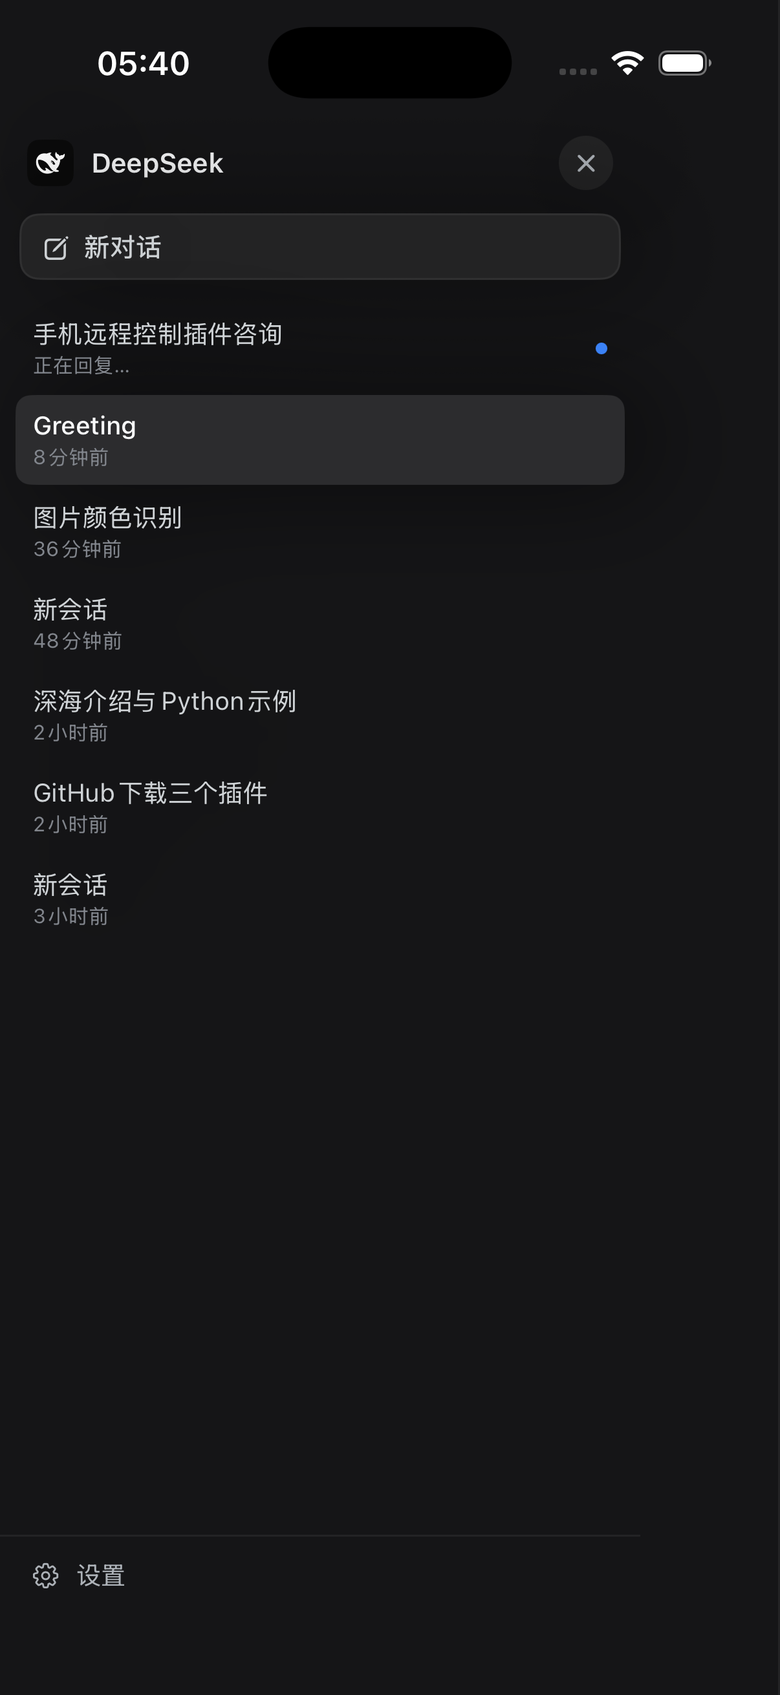
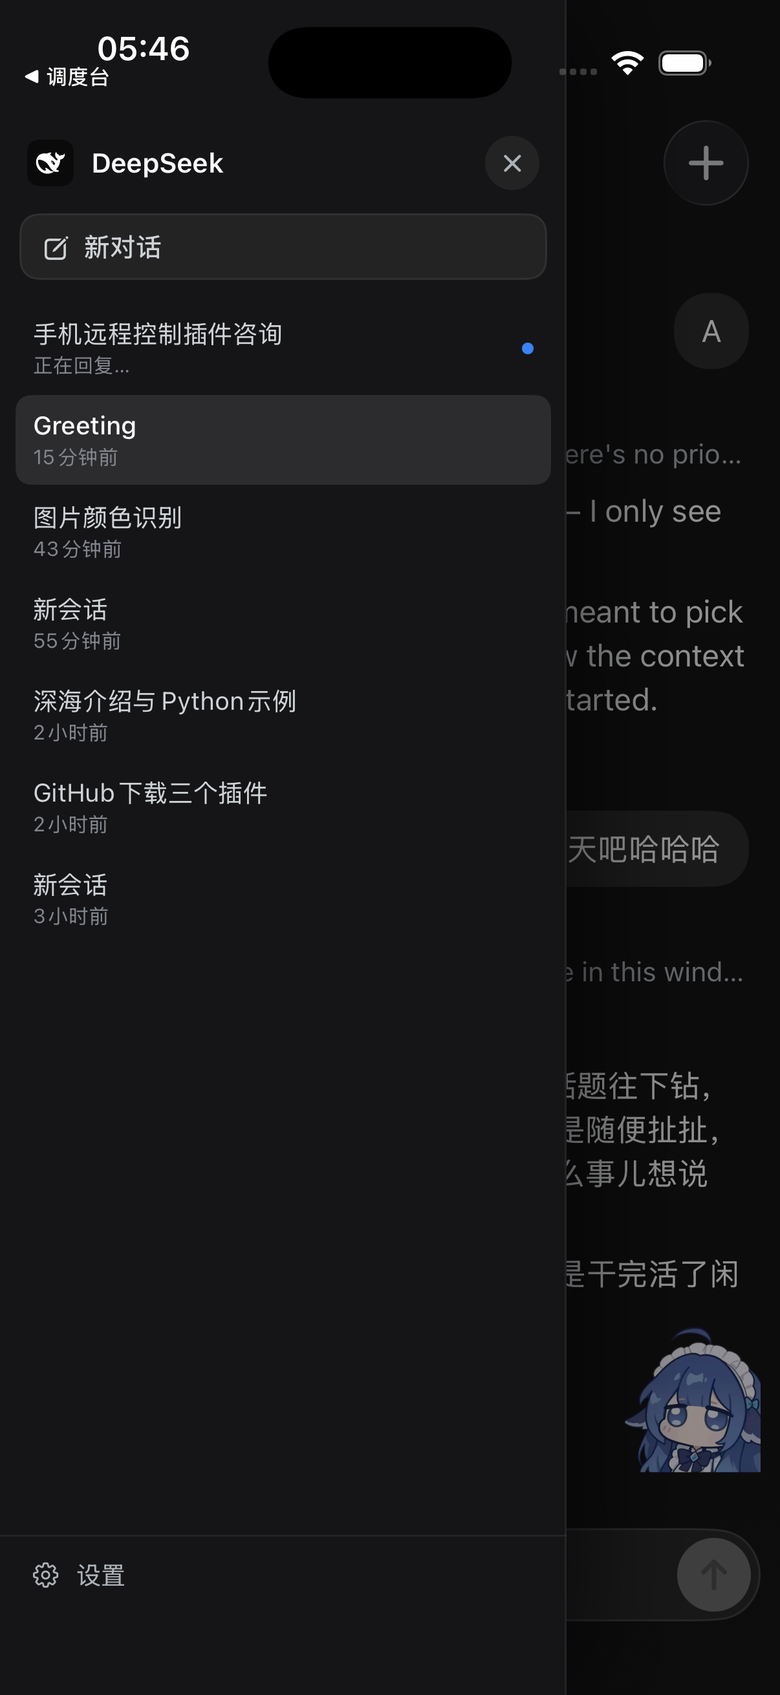
Narrow the sidebar to 292pt

diff --git a/ios/Pocket/PocketApp.swift b/ios/Pocket/PocketApp.swift
@@ -21,7 +21,7 @@ struct RootView: View {
 
     var body: some View {
         GeometryReader { proxy in
-            let width = min(330, proxy.size.width * 0.84)
+            let width = min(292, proxy.size.width * 0.76)
             ZStack(alignment: .leading) {
                 content
 
